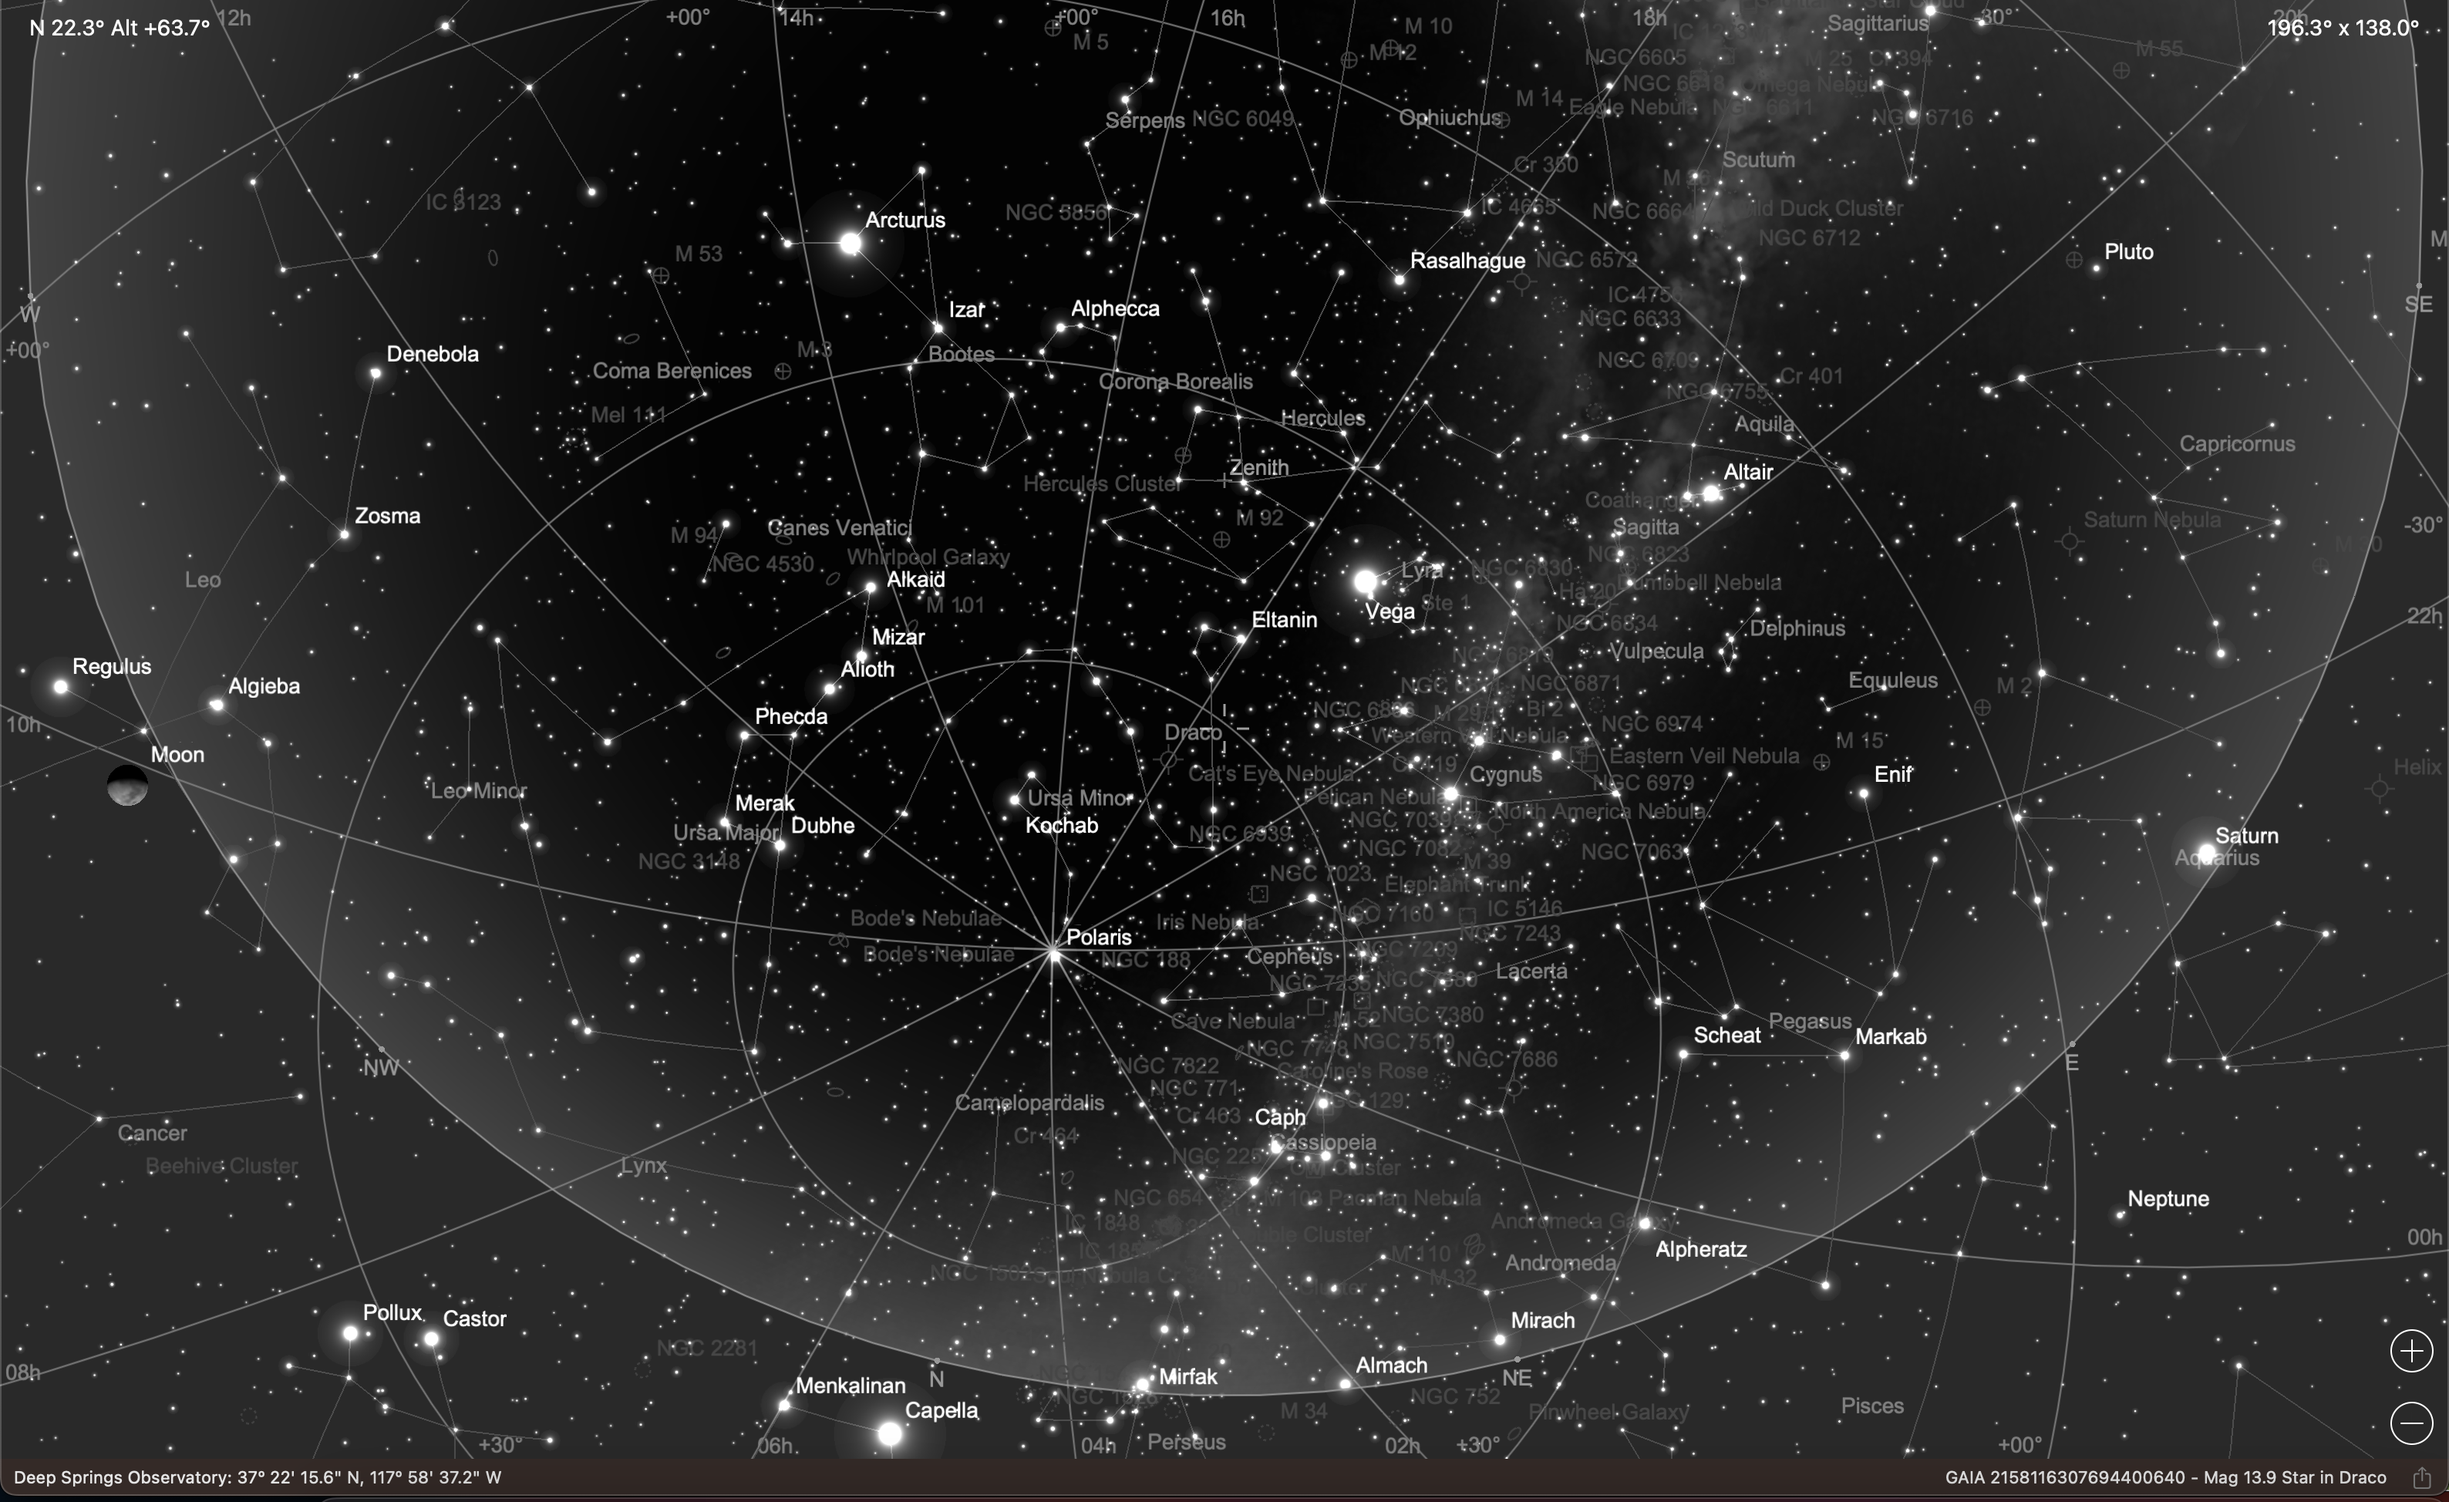
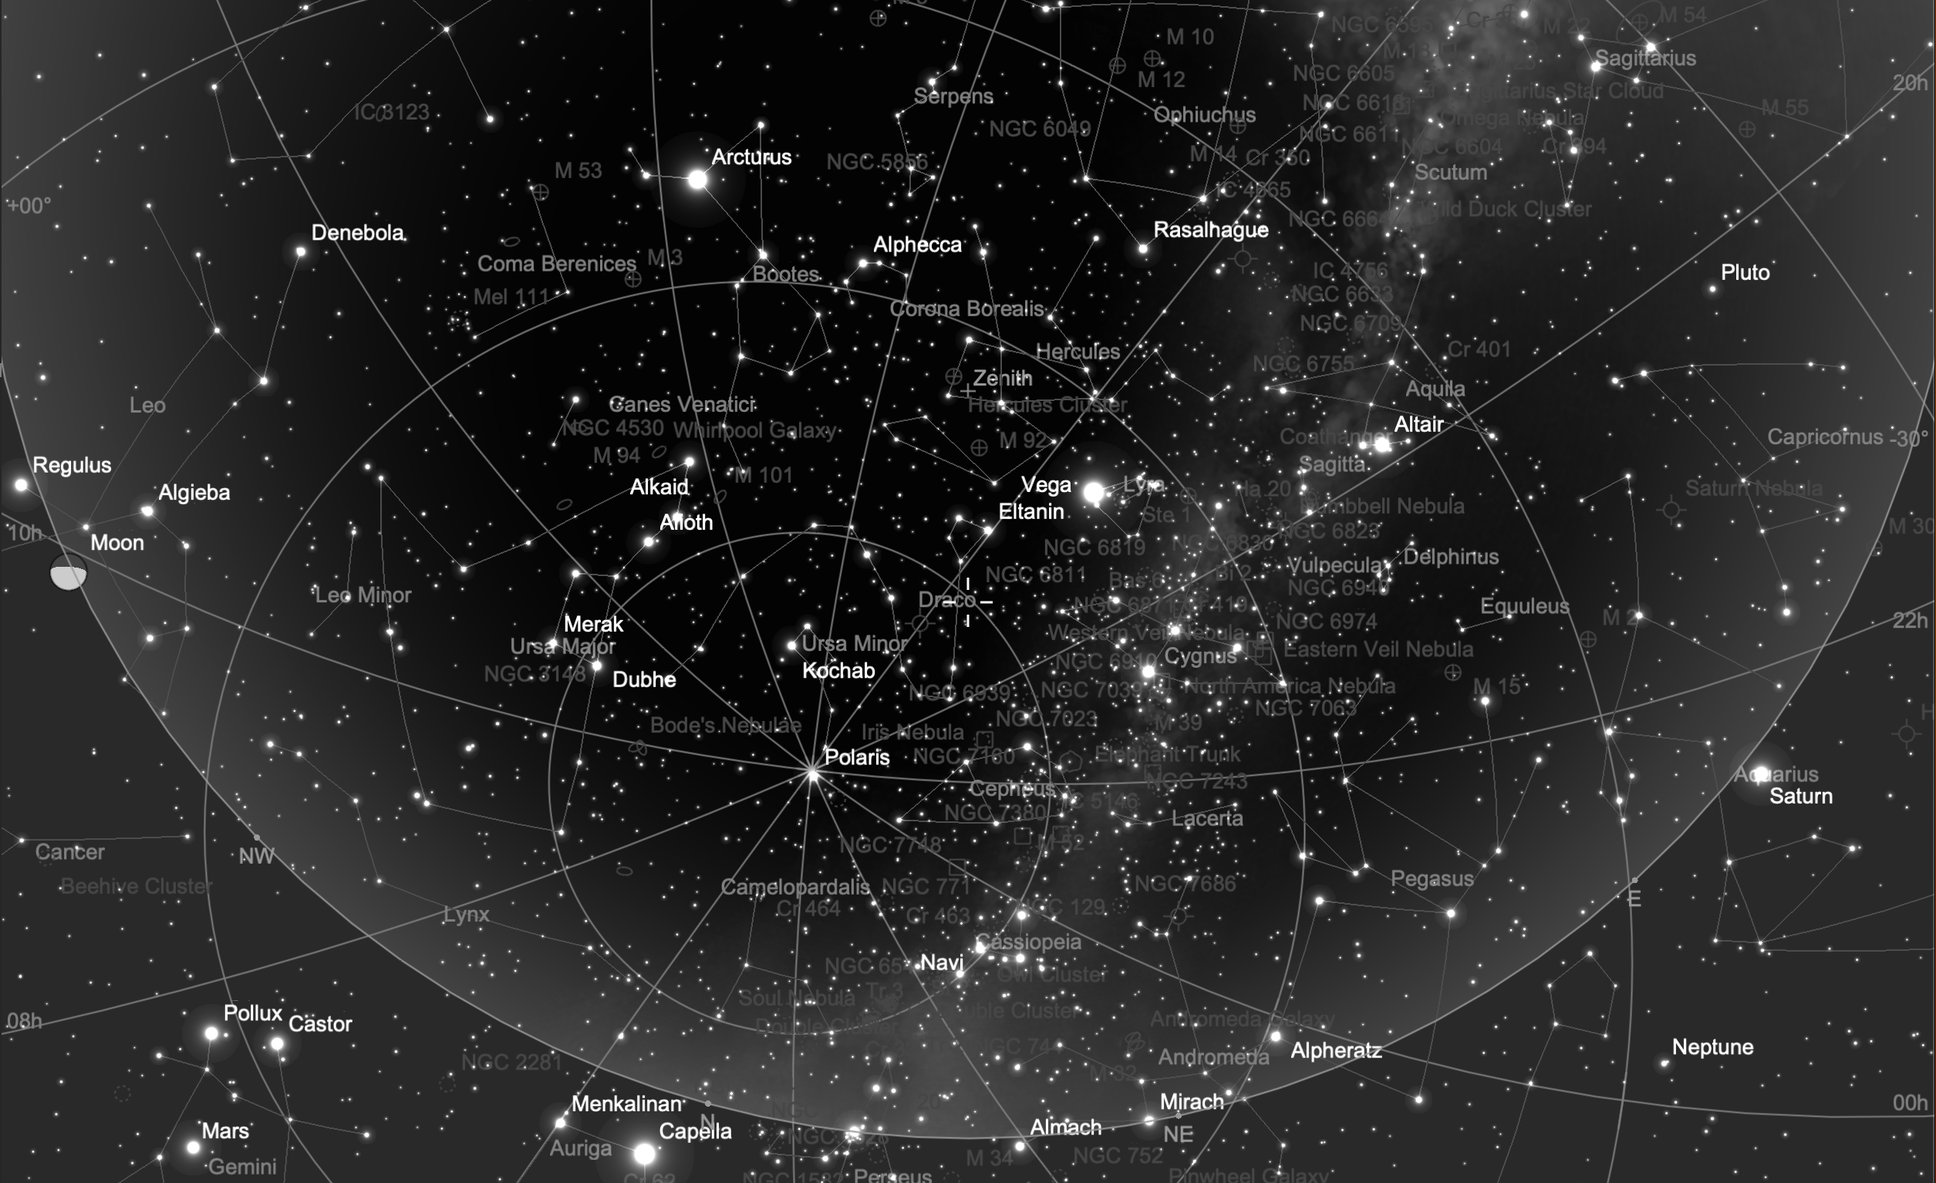
Made Saturday morning's finder chart.

diff --git a/targets/ZTF23aagdamr/target/index.md b/targets/ZTF23aagdamr/target/index.md
@@ -16,7 +16,7 @@ Back to [Index](../index.html)
 * Nearby star in TheSkyX: UCAC4 504:54241
 * Target Coordinates (J2000): RA 18h 26m 9.509s, DEC +60&deg; 25' 37.69"
 
-*10:30am UTC, 3:30am local time, in the wee hours of Saturday, 4/29, just after moonset at 10:18am, and more than an hour before the 11:49am transit*
+*SkySafari Finder Chart at moonset, 10:18am UTC, 3:18am local time, Saturday, 4/29, just over an hour before the 11:24am astronomical dawn*
 
 ![SkySafari Finder Chart](./SkySafariFinderChart.png)
 
